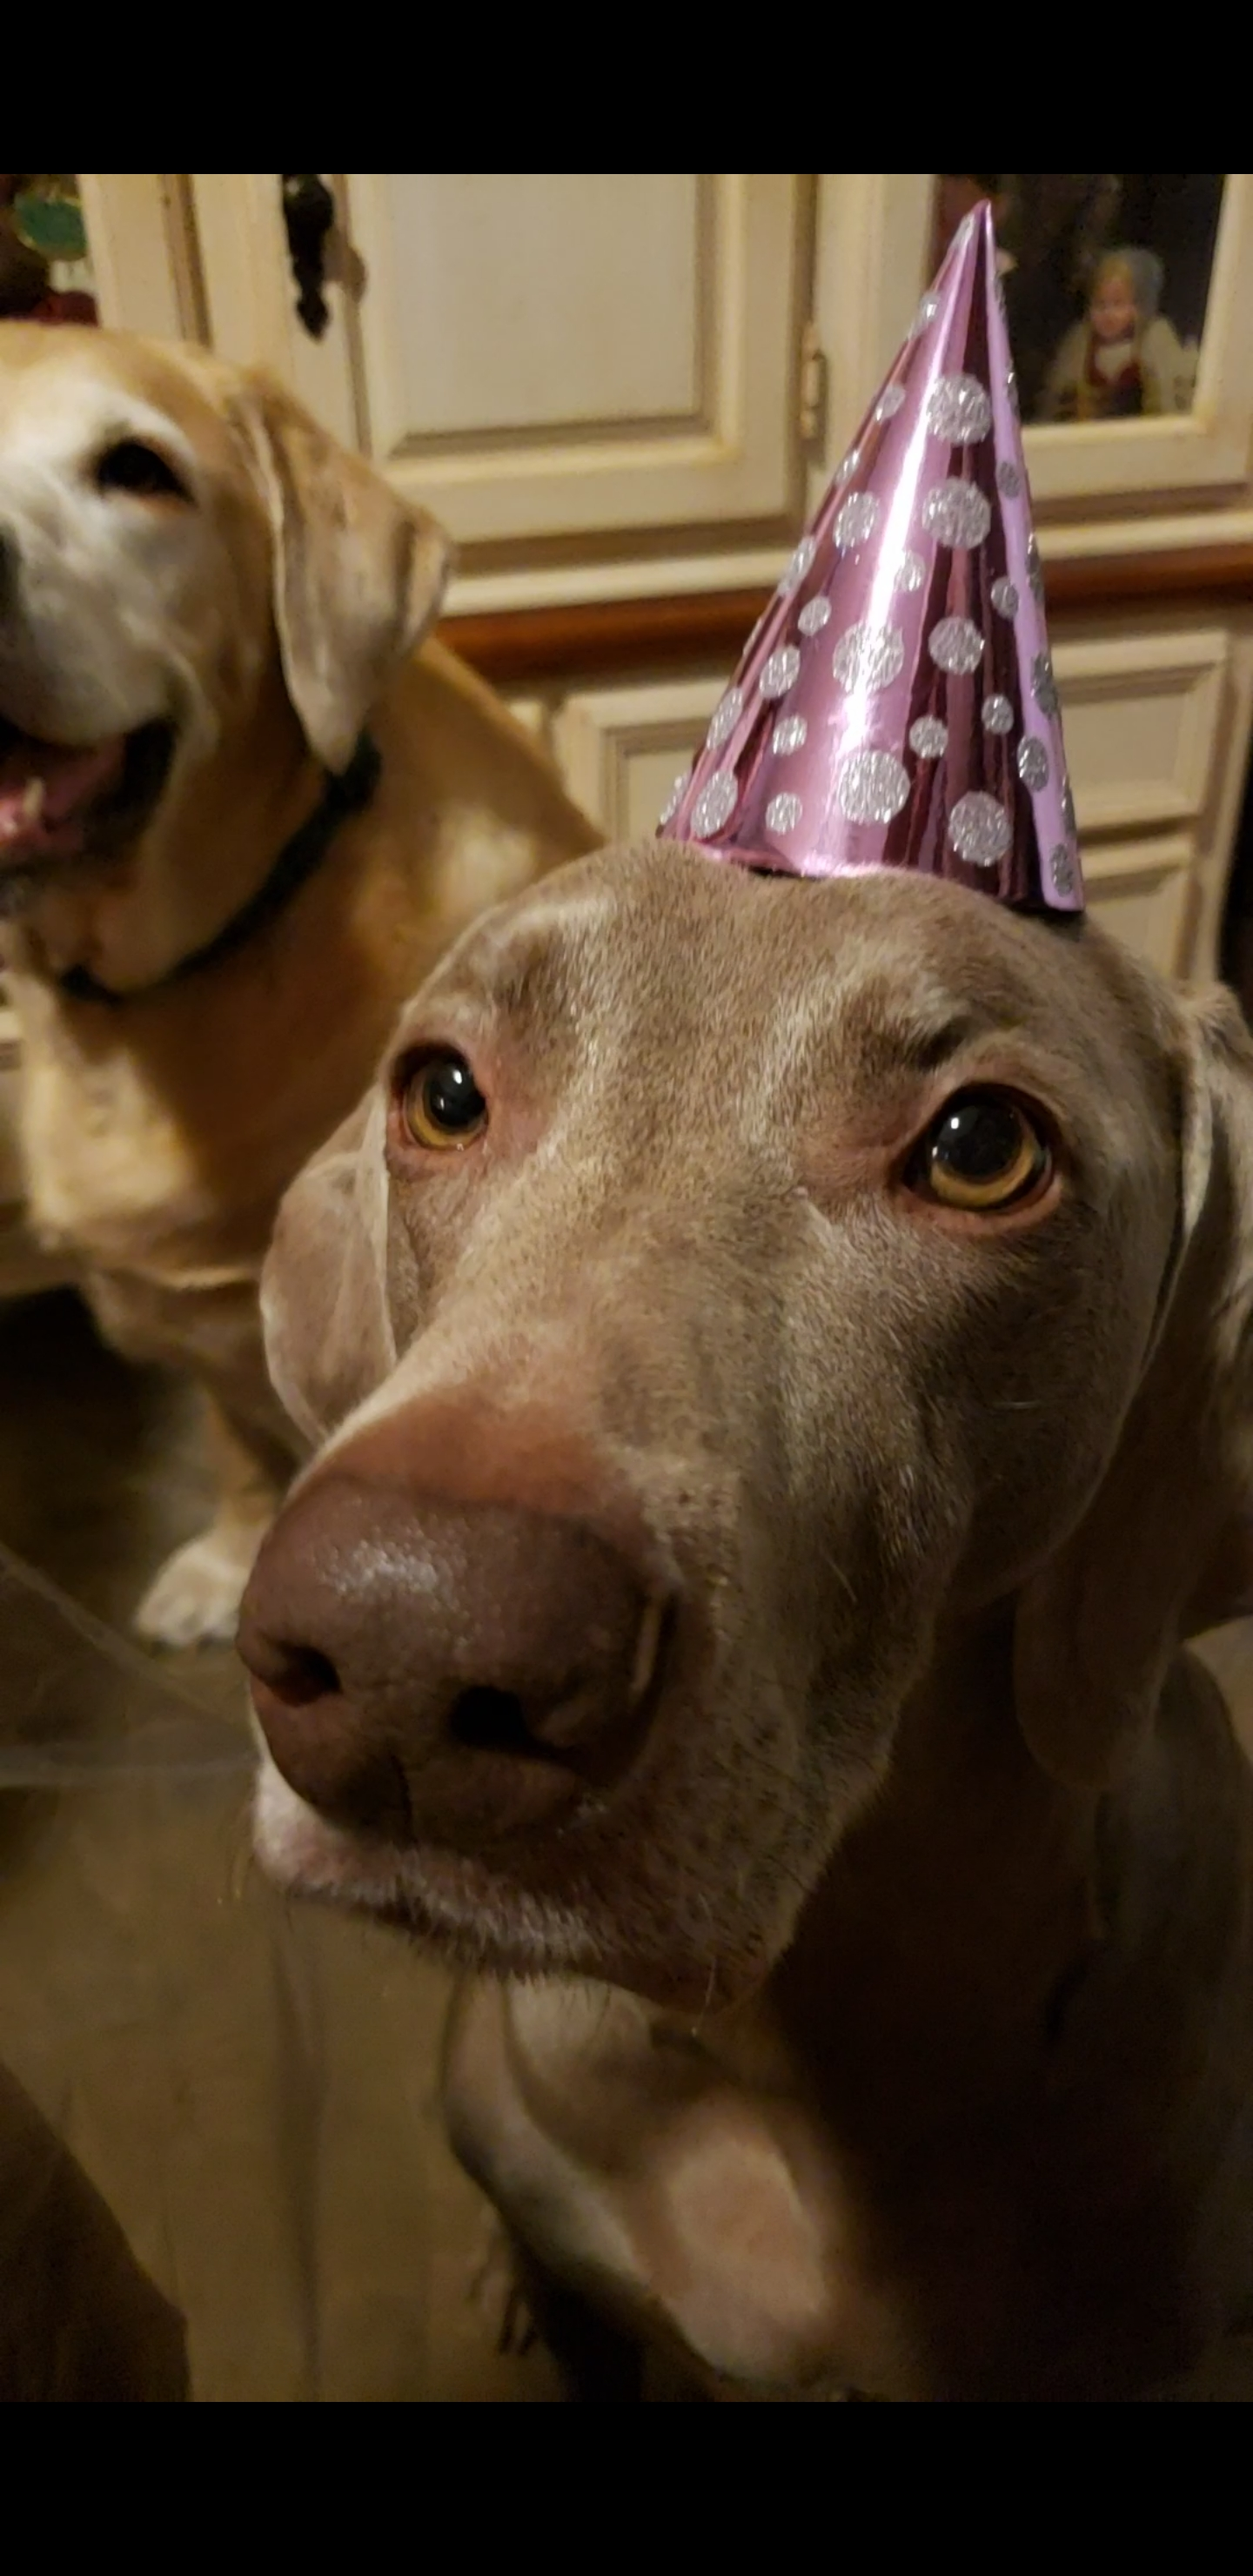
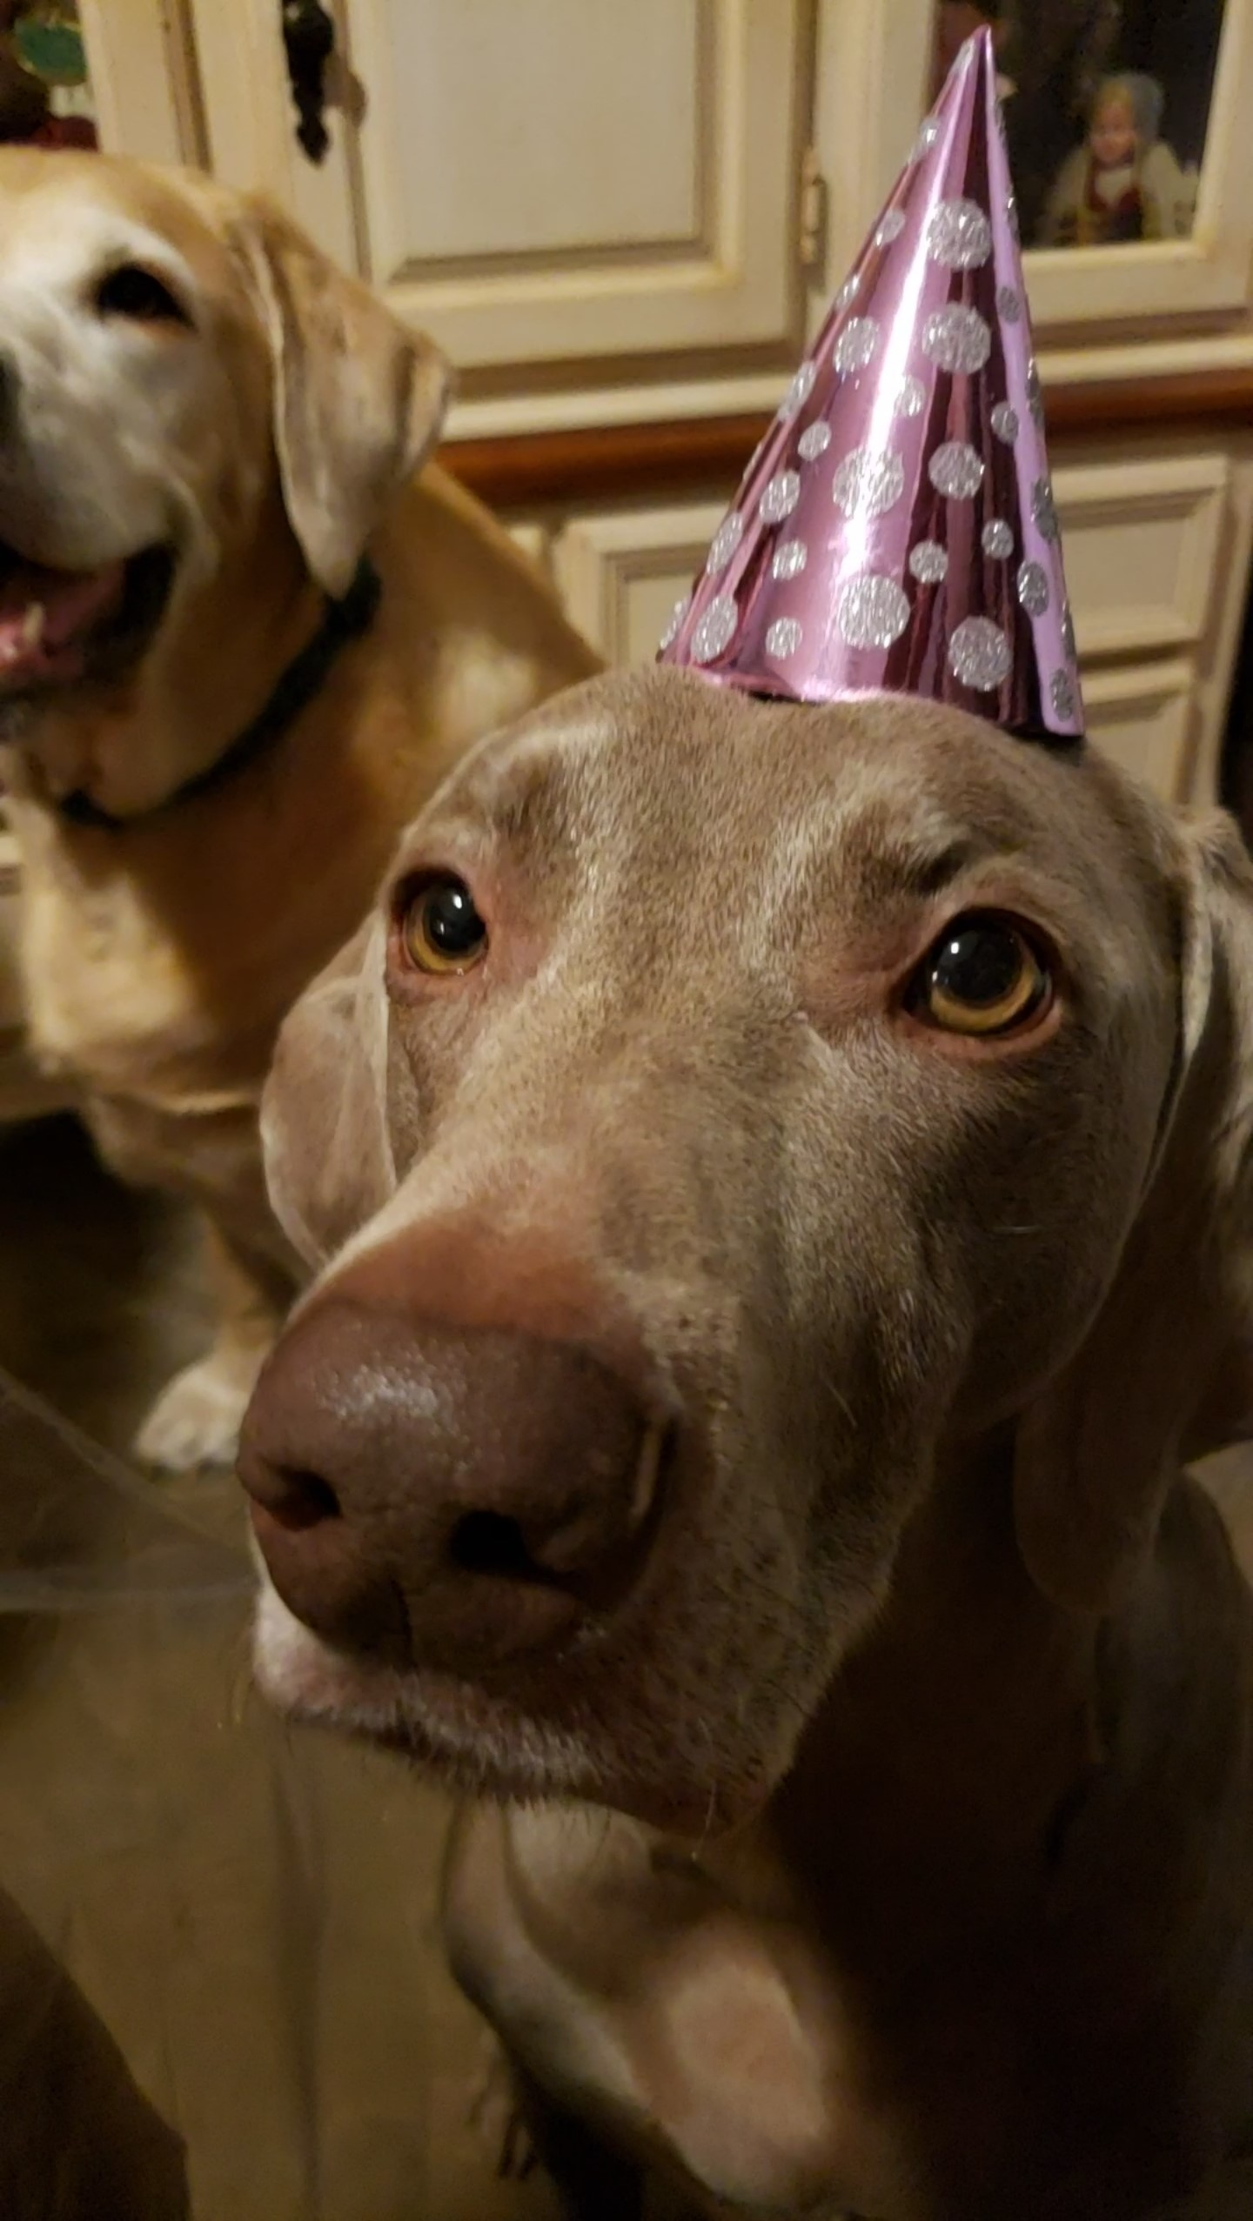
added material for the under construction page

diff --git a/client/src/App.js b/client/src/App.js
@@ -8,6 +8,8 @@ import SwipingPage from "./pages/SwipingPage.js";
 import FriendsPage from "./pages/FriendsPage.js";
 import LoginPage from "./pages/LoginPage.js";
 import SignupPage from "./pages/SignupPage.js";
+import PageNotFound from "./pages/PageNotFound.js";
+import UnderConstructionPage from "./pages/UnderContructionPage.js";
 import API from "./utils/API.js";
 import "./App.css";
 
@@ -28,8 +30,10 @@ function App()
         <TotallyAwesomeNavbar loggedIn={user?true:false} />
           <Switch>
             <Route exact path={["/", "/home"]} component={WelcomePage} />
+            <Route exact path="/404" component={PageNotFound} />
+            <Route exact path="/test" component={UnderConstructionPage} />
             <Route exact path="/profile/settings">
-              {!user? <Redirect to="/login" />: <SettingsPage />}
+              {!user? <Redirect to="/login" />: <UnderConstructionPage />}
             </Route>
             <Route exact path="/profile/friends">
               {user? <FriendsPage user={user}/>: <Redirect to="/login" />}

diff --git a/client/src/pages/UnderContructionPage.js b/client/src/pages/UnderContructionPage.js
@@ -1,12 +1,18 @@
 import React from "react";
+import { Link } from "react-router-dom";
+import { Container, Row, Image } from "react-bootstrap"
 import partyDawg from "../components/images/picture8.jpg";
 
 function UnderConstruction()
 {
-    return (
-        <>
-            <img src={partyDawg} />
-        </>
+        return (
+        <Container style={{height: "calc(100vh - 56px)"}}>
+            <Row style={{height: "inherit"}} className="text-center align-items-center justify-content-center">
+                <h1>Page is underconstruction</h1>
+                <Image style={{maxHeight: "50vh", maxWidth: "50vh" }} src={partyDawg} rounded />
+                <h2>While You're waiting go <Link to="/swipe">find some</Link> friends!</h2>
+            </Row>
+        </Container>
     );
 }
 

diff --git a/client/src/pages/FriendsPage.js b/client/src/pages/FriendsPage.js
@@ -10,7 +10,7 @@ function FriendsPage({ user }) {
 
     useEffect(() => {
         API.getFriends({_id: user._id})
-        .then(({data}) => {console.log(data);setFriends(data)})
+        .then(({data}) => setFriends(data))
         .catch(error => console.log(error));
     }, [])
 
